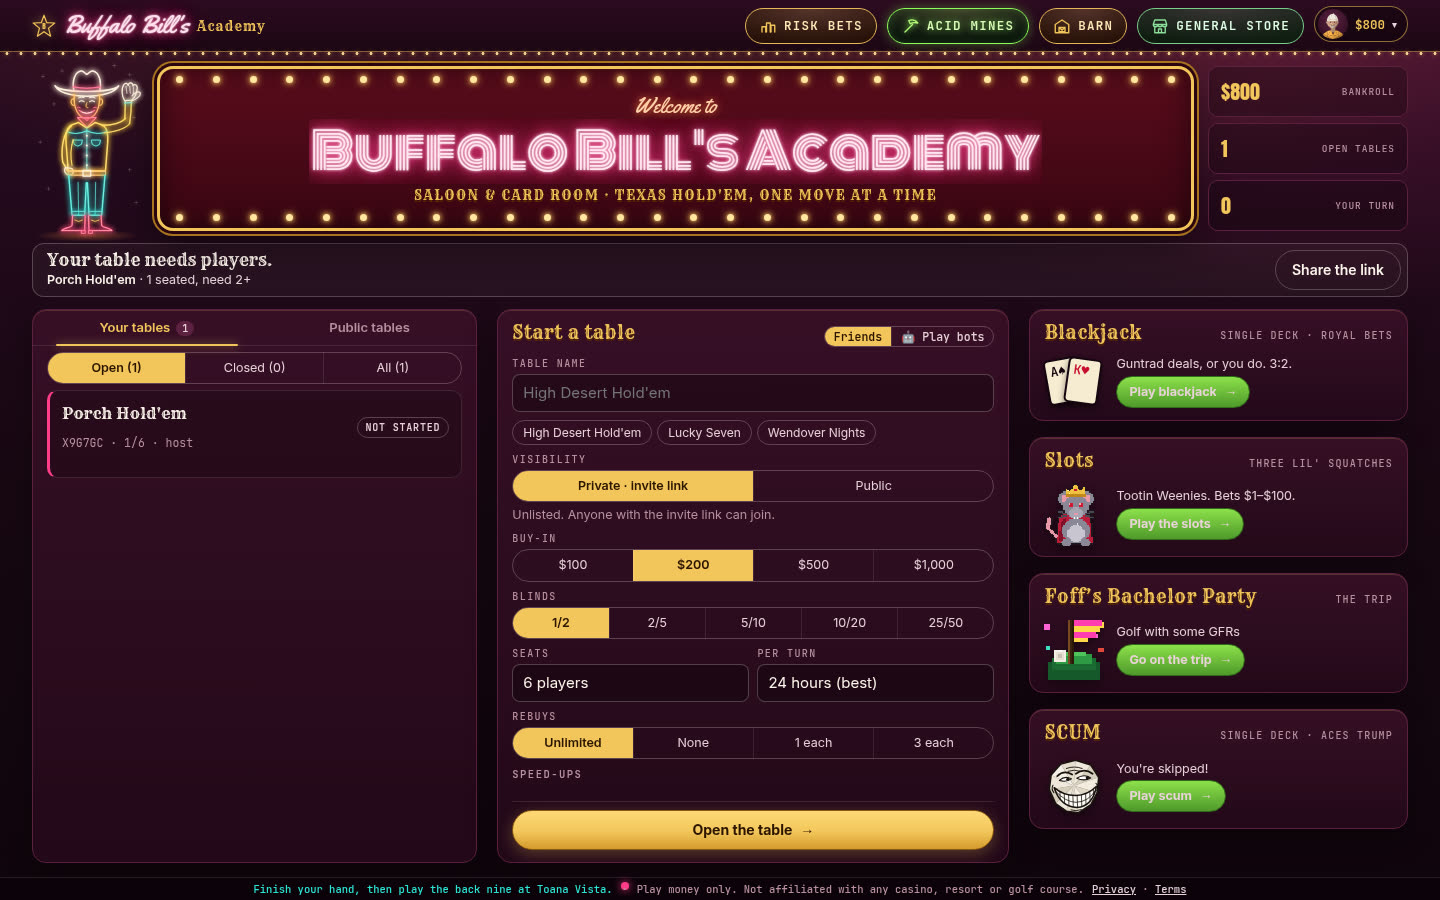
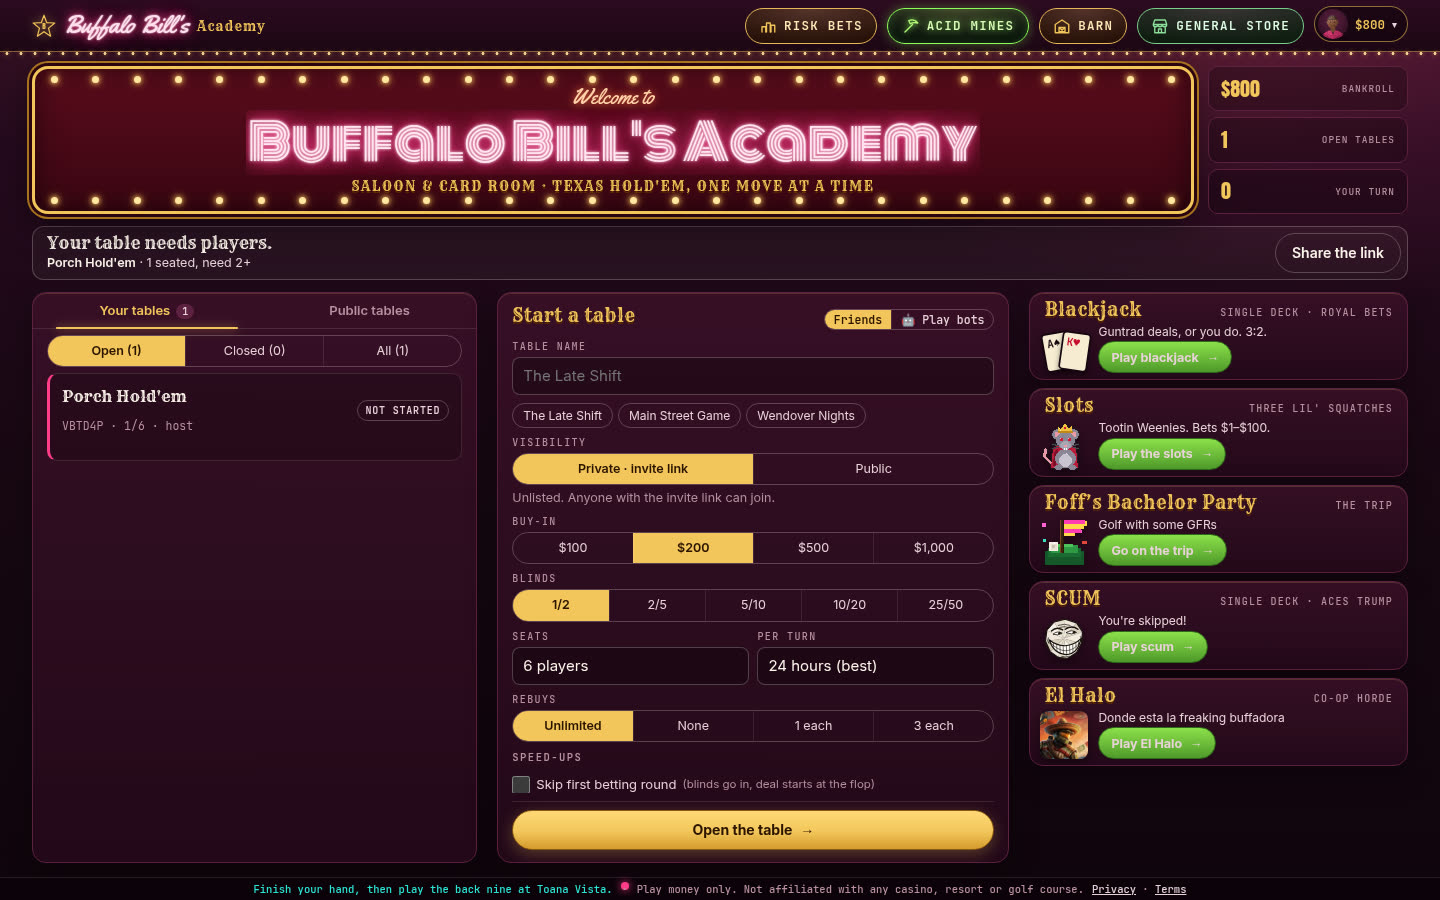
Lobby: El Halo card under SCUM, poster thumb, and a /elhalo route
Adds a fifth game card on the main lobby (and the phone Games tab)
directly below SCUM: Co-op horde tag, the line "Donde esta la freaking
buffadora", and a green Play El Halo button. The thumbnail is a cropped
poster at client/public/elhalo/thumb.webp (png fallback), easy to swap.
Cards are tightened so all five fit with no scrolling on 1280x800,
1440x900, and phones. /elhalo opens the same room as the hall door,
with Exit back to the lobby.

diff --git a/client/src/styles.css b/client/src/styles.css
@@ -1286,7 +1286,7 @@ img.pix { image-rendering: pixelated; image-rendering: crisp-edges; display: blo
 @media (pointer: coarse) { .seg.mini button { min-height: 34px; } }
 
 /* v39: the slots card under Join a table (wide), and the promo under the room code form (narrow Join tab) */
-.lb-col { display: flex; flex-direction: column; gap: clamp(10px, 1.2vw, 16px); min-height: 0; min-width: 0; }
+.lb-col { display: flex; flex-direction: column; gap: clamp(8px, 1vw, 12px); min-height: 0; min-width: 0; }
 .lb-col > .lb-card:first-child { flex: 1 1 auto; }
 .lb-col > .lb-slots { flex: 0 0 auto; }
 .lb-slots .panel-body { padding: 4px 12px 10px; }
@@ -1420,12 +1420,27 @@ img.pix { image-rendering: pixelated; image-rendering: crisp-edges; display: blo
   .promo-pair .bj-promo-art { width: 46px; height: 40px; transform: scale(.75); transform-origin: left center; }
 }
 /* v44: two game cards under Join a table; on short desktops they go compact so the Join form keeps its room */
-@media (min-width: 900px) and (max-height: 800px) {
-  .lb-col .lb-slots .sp-art, .lb-col .lb-slots .bj-promo-art { width: 40px; height: 40px; }
-  .lb-col .lb-slots .bj-promo-art { transform: scale(.72); transform-origin: left center; }
-  .lb-col .lb-slots .sp-desc, .lb-col .lb-slots .sp-note { display: none; }
+@media (min-width: 900px) and (max-height: 920px) {
+  /* Five game cards (through El Halo) still fit on 1440×900, blurbs included. */
+  .lb-col { gap: 8px; }
+  .lb-col .lb-slots .sp-art, .lb-col .lb-slots .bj-promo-art, .lb-col .lb-slots .elh-promo-art { width: 48px; height: 48px; }
+  .lb-col .lb-slots .bj-promo-art { transform: scale(.85); transform-origin: left center; }
   .lb-col .lb-slots .panel-head { padding-top: 4px; padding-bottom: 0; }
-  .lb-col .lb-slots .panel-body { padding: 0 10px 6px; }
+  .lb-col .lb-slots .panel-body { padding: 2px 10px 6px; }
+  .lb-col .lb-slots .sp-txt { gap: 2px; }
+  .lb-col .lb-slots .sp-desc { font-size: 12px; line-height: 1.2; }
+}
+@media (min-width: 900px) and (max-height: 800px) {
+  /* 1280×800: tighter still, but keep the one-line blurb (El Halo's line is long). */
+  .lb-col { gap: 6px; }
+  .lb-col .lb-slots .sp-art, .lb-col .lb-slots .bj-promo-art, .lb-col .lb-slots .elh-promo-art { width: 40px; height: 40px; }
+  .lb-col .lb-slots .bj-promo-art { transform: scale(.72); transform-origin: left center; }
+  .lb-col .lb-slots .sp-note { display: none; }
+  .lb-col .lb-slots .panel-head { padding-top: 2px; padding-bottom: 0; }
+  .lb-col .lb-slots .panel-body { padding: 0 8px 4px; }
+  .lb-col .lb-slots .sp-txt { gap: 1px; }
+  .lb-col .lb-slots .sp-desc { font-size: 11px; line-height: 1.2; }
+  .lb-col .lb-slots .sp-go { padding: 3px 8px; font-size: 12px; }
 }
 @media (min-width: 900px) and (max-height: 620px) {
   .lb-col .lb-slots .panel-head { display: none; }
@@ -1433,13 +1448,13 @@ img.pix { image-rendering: pixelated; image-rendering: crisp-edges; display: blo
 }
 .lb-games { display: contents; }
 @media (min-width: 900px) and (max-height: 620px) {
-  .lb-games { display: flex; gap: 8px; flex: none; min-width: 0; }
-  .lb-games > .lb-slots { flex: 1 1 0; min-width: 0; }
-  .lb-games .sp-art, .lb-games .bj-promo-art, .lb-games .sp-note { display: none; }
+  .lb-games { display: flex; flex-direction: column; gap: 6px; flex: none; min-width: 0; }
+  .lb-games > .lb-slots { flex: 0 0 auto; min-width: 0; }
+  .lb-games .sp-art, .lb-games .bj-promo-art, .lb-games .elh-promo-art, .lb-games .sp-note, .lb-games .sp-desc { display: none; }
   .lb-games .sp-go { width: 100%; justify-content: center; padding-inline: 6px; font-size: 12px; white-space: nowrap; }
   .lb-games .sp-txt { align-items: stretch; width: 100%; }
   .lb-games .slots-promo { width: 100%; }
-  .lb-games .lb-slots .panel-body { padding: 6px; }
+  .lb-games .lb-slots .panel-body { padding: 4px 6px; }
 }
 /* v50: crowded tables: tighter name/stack pills (two short lines) so 7-9 seats never touch each other */
 .felt-box.crowd .seat-plate { padding: 1px 7px 2px; min-width: calc(var(--bust) * 1.3); }
@@ -1659,6 +1674,15 @@ button, .btn, [role=button], label { touch-action: manipulation; }
 .lb-col > .lb-scum { flex: 0 0 auto; }
 .sc-promo-art { display: grid; place-items: center; }
 .sc-promo-art svg { width: 100%; height: auto; }
+/* El Halo lobby card (directly below SCUM). The thumb is a photo, not pixel art. */
+.lb-col > .lb-elhalo { flex: 0 0 auto; }
+.elh-promo-art {
+  image-rendering: auto;
+  object-fit: cover;
+  border-radius: 8px;
+  background: #1d0f24;
+  filter: drop-shadow(0 3px 4px rgba(0,0,0,.45));
+}
 
 /* v86: Games tab on phones — every game card must be visible and tappable without scrolling.
    Compact rows, drop the marquee and host strip, shrink the footer, and keep overflow-y as a
@@ -1684,13 +1708,14 @@ button, .btn, [role=button], label { touch-action: manipulation; }
     overflow-y: auto; overscroll-behavior: contain;
   }
   .lobby5.narrow .promo-pair > .slots-promo:not(.bare) {
-    margin-top: 0; padding: 6px 8px; gap: 8px;
+    margin-top: 0; padding: 5px 8px; gap: 8px;
   }
-  .lobby5.narrow .promo-pair .sp-art { width: 40px; height: 40px; }
+  .lobby5.narrow .promo-pair .sp-art, .lobby5.narrow .promo-pair .elh-promo-art { width: 40px; height: 40px; }
   .lobby5.narrow .promo-pair .bj-promo-art {
     width: 46px; height: 40px; transform: scale(.75); transform-origin: left center;
   }
   .lobby5.narrow .promo-pair .sc-promo-art svg { width: 40px; height: 40px; }
+  .lobby5.narrow .promo-pair .elh-promo-art { border-radius: 6px; image-rendering: auto; }
   /* Icon + title/line + button on one compact row; keep the short descriptor. */
   .lobby5.narrow .promo-pair .sp-txt {
     flex: 1; min-width: 0;
@@ -1701,10 +1726,10 @@ button, .btn, [role=button], label { touch-action: manipulation; }
   .lobby5.narrow .promo-pair .sp-go { margin-left: auto; }
 }
 
-/* Landscape phones: two-by-two so four compact cards share the short height. */
+/* Landscape phones: three-and-two so five compact cards share the short height. */
 @media (max-width: 899px) and (orientation: landscape) and (max-height: 520px) {
   .lobby5.narrow .promo-pair {
-    display: grid; grid-template-columns: 1fr 1fr; align-content: start; gap: 6px;
+    display: grid; grid-template-columns: 1fr 1fr 1fr; align-content: start; gap: 6px;
   }
   .lobby5.narrow .promo-pair > .slots-promo:not(.bare) { margin-top: 0; padding: 4px 8px; }
   .lobby5.narrow .promo-pair .sp-txt b { display: inline; }

diff --git a/client/src/Home.jsx b/client/src/Home.jsx
@@ -8,6 +8,7 @@ import { formatLeft, money } from './util.js';
 import { Marquee, TABLE_NAMES, VENUE } from './theme.jsx';
 import { FoffCard, FoffPromo } from './foff/FoffCard.jsx';
 import { ScumCard, ScumPromo } from './scum/ScumCard.jsx';
+import { ElHaloCard, ElHaloPromo } from './mines/elhalo/ElHaloCard.jsx';
 
 const TURN_OPTIONS = [
   [30, '30 sec (quick)'], [60, '1 minute'], [300, '5 minutes'], [3600, '1 hour'],
@@ -181,7 +182,7 @@ export default function Home({ tab: tabProp }) {
         {me ? <Card title="Start a table" className="create-card" sub={<VsSwitch vs={vs} setVs={setOpponent} />}>{newTable}</Card> : <Card title="How it plays" sub="House rules"><HouseRules /></Card>}
         {me ? (
           <div className="lb-col lb-games-col">
-            <div className="lb-games"><BlackjackCard /><SlotsCard /><FoffCard /><ScumCard /></div>
+            <div className="lb-games"><BlackjackCard /><SlotsCard /><FoffCard /><ScumCard /><ElHaloCard /></div>
           </div>
         ) : <Card title="How to join" sub="Invite link"><p className="small muted">Got an invite link? Just open it. Buy-ins come out of your bankroll; when you leave, your chips go back in.</p></Card>}
       </div>
@@ -335,7 +336,7 @@ function PublicTableList({ tables, loading, error, startPublic }) {
 
 function LobbyPanel({ personalTables, publicTables, tab, setTab, wide, newTable, startPublic, tableFilter, setTableFilter }) {
   const mine = personalTables.loaded ? personalTables.tables.length || null : '—';
-  // v51: Join-by-code gone; Games tab holds blackjack, slots, Foff's Bachelor Party and Async Scum.
+  // v51: Join-by-code gone; Games tab holds blackjack, slots, Foff's Bachelor Party, Async Scum and El Halo.
   // v51d: do NOT stack Games under Your tables — that ate the Paged height so table cards
   // clipped to a pink sliver with an empty gap (pager 1/N, no tappable rows).
   const tabKey = wide ? (tab === 'public' ? 'public' : 'tables') : tab === 'join' ? 'tables' : tab;
@@ -345,7 +346,7 @@ function LobbyPanel({ personalTables, publicTables, tab, setTab, wide, newTable,
       <div className={`panel-body ${['tables', 'public'].includes(tabKey) ? 'tables-tab' : tabKey === 'games' ? 'games-tab' : ''}`}>
         {tabKey === 'public' ? <PublicTableList {...publicTables} startPublic={startPublic} />
           : tabKey === 'new' ? newTable
-          : tabKey === 'games' ? <div className="promo-pair" data-test="lobby-games"><BlackjackPromo /><SlotsPromo /><FoffPromo /><ScumPromo /></div>
+          : tabKey === 'games' ? <div className="promo-pair" data-test="lobby-games"><BlackjackPromo /><SlotsPromo /><FoffPromo /><ScumPromo /><ElHaloPromo /></div>
           : <TableList {...personalTables} setTab={setTab} filter={tableFilter} setFilter={setTableFilter} />}
       </div>
     </div>

diff --git a/test/el-halo-card.test.js b/test/el-halo-card.test.js
@@ -1,0 +1,52 @@
+// The lobby El Halo tile sits under SCUM, uses the swappable thumb, and opens /elhalo.
+import { test } from 'node:test';
+import assert from 'node:assert/strict';
+import fs from 'node:fs';
+import path from 'node:path';
+import { fileURLToPath } from 'node:url';
+
+const root = path.resolve(path.dirname(fileURLToPath(import.meta.url)), '..');
+const read = (p) => fs.readFileSync(path.join(root, p), 'utf8');
+
+test('El Halo sits directly under SCUM on the lobby and on the Games tab', () => {
+  const home = read('client/src/Home.jsx');
+  assert.match(home, /import \{ ElHaloCard, ElHaloPromo \} from '\.\/mines\/elhalo\/ElHaloCard\.jsx'/);
+  assert.match(home, /<ScumCard \/><ElHaloCard \/>/);
+  assert.match(home, /<ScumPromo \/><ElHaloPromo \/>/);
+  const card = read('client/src/mines/elhalo/ElHaloCard.jsx');
+  assert.match(card, /className="panel lb-card lb-slots lb-elhalo"/);
+  assert.match(card, /data-test="elhalo-card"/);
+  assert.match(card, /data-test="elhalo-go"/);
+  assert.match(card, /Co-op horde/);
+  assert.match(card, /Play El Halo/);
+  assert.match(card, /navigate\('\/elhalo'\)/);
+});
+
+test('the El Halo blurb is exactly the line Tyler asked for', () => {
+  const card = read('client/src/mines/elhalo/ElHaloCard.jsx');
+  assert.match(card, /export const EL_HALO_BLURB = 'Donde esta la freaking buffadora'/);
+  assert.equal((card.match(/Donde esta la freaking buffadora/g) || []).length, 1);
+});
+
+test('the thumbnail slot is a swappable public file (webp, with png fallback)', () => {
+  const card = read('client/src/mines/elhalo/ElHaloCard.jsx');
+  assert.match(card, /\/elhalo\/thumb\.webp/);
+  assert.match(card, /\/elhalo\/thumb\.png/);
+  const webp = path.join(root, 'client/public/elhalo/thumb.webp');
+  assert.equal(fs.existsSync(webp), true, 'client/public/elhalo/thumb.webp is present');
+  assert.ok(fs.statSync(webp).size > 1000, 'thumb.webp is a real image');
+  assert.ok(fs.statSync(webp).size < 80_000, 'thumb.webp stays small so it is easy to swap');
+});
+
+test('App opens /elhalo as its own lazily loaded page, outside the hall', () => {
+  const app = read('client/src/App.jsx');
+  assert.match(app, /lazy\(\(\) => import\('\.\/mines\/elhalo\/ElHaloPage\.jsx'\)\)/);
+  assert.match(app, /path === '\/elhalo'/);
+  assert.doesNotMatch(app, /^import .*elhalo/m, 'no static import of the game');
+  const page = read('client/src/mines/elhalo/ElHaloPage.jsx');
+  assert.match(page, /navigate\('\/'\)/);
+  assert.match(page, /BACK TO THE LOBBY/);
+  const room = read('client/src/mines/elhalo/ElHaloRoom.jsx');
+  assert.match(room, /exitLabel = '◄ BACK TO THE HALL'/);
+  assert.match(room, /showShift = true/);
+});

diff --git a/client/src/mines/elhalo/ElHaloRoom.jsx b/client/src/mines/elhalo/ElHaloRoom.jsx
@@ -91,7 +91,7 @@ function Board({ rows, onClose, touch }) {
   );
 }
 
-export default function ElHaloRoom({ onExit, elapsedMs }) {
+export default function ElHaloRoom({ onExit, elapsedMs, exitLabel = '◄ BACK TO THE HALL', showShift = true }) {
   const canvas = useRef(null), stage = useRef(null), game = useRef(null);
   const [touch] = useState(isTouch);
   const [muted, setMuted] = useState(() => localStorage.getItem('bba.elhalo.muted') === '1');
@@ -144,9 +144,9 @@ export default function ElHaloRoom({ onExit, elapsedMs }) {
   return createPortal(
     <div className={`m-doom m-elh${touch ? ' touch' : ''}`} role="dialog" aria-label="El Halo" data-test="elhalo-room" data-mode={m}>
       <div className="m-doom-bar m-elh-bar">
-        <button className="m-btn m-doom-exit" onClick={onExit} data-test="elhalo-exit">◄ BACK TO THE HALL</button>
+        <button className="m-btn m-doom-exit" onClick={onExit} data-test="elhalo-exit">{exitLabel}</button>
         <span className="m-elh-name" aria-hidden="true">EL HALO</span>
-        <span className="m-dim m-doom-clock" title="Your shift is still on the clock while you're in here">SHIFT {String(Math.floor(secs / 60)).padStart(2, '0')}:{String(secs % 60).padStart(2, '0')}</span>
+        {showShift && <span className="m-dim m-doom-clock" title="Your shift is still on the clock while you're in here">SHIFT {String(Math.floor(secs / 60)).padStart(2, '0')}:{String(secs % 60).padStart(2, '0')}</span>}
         {touch && m === 'playing' && <button className="m-link" onClick={() => setBoard((b) => (b ? null : game.current.board()))} data-test="elhalo-board-btn">MARCADOR</button>}
         <button className="m-link" onClick={cycleMusic} data-test="elhalo-music" title="Music volume">MÚSICA {MUSIC_LEVELS[music][0]}</button>
         <button className="m-link" onClick={() => setMuted((v) => !v)} aria-pressed={!muted} data-test="elhalo-mute">{muted ? '♪ OFF' : '♪ ON'}<span className="sr-only"> game sound</span></button>

diff --git a/test/games-fit.test.js b/test/games-fit.test.js
@@ -21,9 +21,9 @@ test('Games tab CSS hides the marquee and host strip on phones and keeps a scrol
   assert.match(block, /\.panel-body\.games-tab/);
   assert.match(block, /overflow-y: auto/);
   assert.match(block, /\.lobby5\.narrow \.promo-pair/);
-  assert.match(block, /\.sp-art \{ width: 40px; height: 40px; \}/);
+  assert.match(block, /\.sp-art(?:, [^\n]+)? \{ width: 40px; height: 40px; \}/);
   assert.match(block, /orientation: landscape/);
-  assert.match(block, /grid-template-columns: 1fr 1fr/);
+  assert.match(block, /grid-template-columns: 1fr 1fr 1fr/);
   // Desktop column rules must not be rewritten by the phone block.
   assert.doesNotMatch(block, /@media \(min-width: 900px\)/);
 });
@@ -38,6 +38,7 @@ test('Games tab panel is marked games-tab and still lists every promo', () => {
   assert.match(slice, /<SlotsPromo \/>/);
   assert.match(slice, /<FoffPromo \/>/);
   assert.match(slice, /<ScumPromo \/>/);
+  assert.match(slice, /<ElHaloPromo \/>/);
 });
 
 test('phone footer hides the long affiliation clause; house play-money line stays', () => {
@@ -55,14 +56,18 @@ test('SCUM card line and slots copy stay as shipped', () => {
   assert.equal(promo.includes('Play money only'), false);
 });
 
-test('e2e no-scroll check covers 390x664, 375x667 and landscape', () => {
+test('e2e no-scroll check covers 390x664, 375x667, 390x844, landscape, 1280x800 and 1440x900', () => {
   const e2e = read('scripts/e2e-games-fit.mjs');
   assert.match(e2e, /width: 390, height: 664/);
   assert.match(e2e, /width: 375, height: 667/);
+  assert.match(e2e, /width: 390, height: 844/);
+  assert.match(e2e, /width: 1280, height: 800/);
+  assert.match(e2e, /width: 1440, height: 900/);
   assert.match(e2e, /landscape/i);
   assert.match(e2e, /bj-go/);
   assert.match(e2e, /slots-go/);
   assert.match(e2e, /foff-go/);
   assert.match(e2e, /scum-go/);
+  assert.match(e2e, /elhalo-go/);
   assert.match(e2e, /getBoundingClientRect|within the viewport|inView|fullyVisible/);
 });

diff --git a/client/src/mines/elhalo/ElHaloCard.jsx b/client/src/mines/elhalo/ElHaloCard.jsx
@@ -1,0 +1,39 @@
+// Lobby Games card for El Halo: same chrome as blackjack, slots and SCUM.
+// Art is client/public/elhalo/thumb.webp (falls back to thumb.png). Drop in a new file to swap it.
+import React, { useState } from 'react';
+import { navigate } from '../../App.jsx';
+
+const THUMB_WEBP = '/elhalo/thumb.webp';
+const THUMB_PNG = '/elhalo/thumb.png';
+export const EL_HALO_BLURB = 'Donde esta la freaking buffadora';
+
+export function ElHaloCard() {
+  return (
+    <section className="panel lb-card lb-slots lb-elhalo" data-test="elhalo-card">
+      <div className="panel-head"><span className="western">El Halo</span><span className="ph-sub">Co-op horde</span></div>
+      <div className="panel-body"><ElHaloPromo bare /></div>
+    </section>
+  );
+}
+
+export function ElHaloPromo({ bare = false }) {
+  const [src, setSrc] = useState(THUMB_WEBP);
+  return (
+    <div className={`slots-promo elh-promo ${bare ? 'bare' : ''}`} data-test={bare ? undefined : 'elhalo-card'}>
+      <img
+        className="sp-art elh-promo-art"
+        src={src}
+        alt=""
+        aria-hidden="true"
+        width={64}
+        height={64}
+        onError={() => { if (src !== THUMB_PNG) setSrc(THUMB_PNG); }}
+      />
+      <div className="sp-txt">
+        {!bare && <b className="western">El Halo</b>}
+        <span className="small sp-desc">{EL_HALO_BLURB}</span>
+        <button className="btn small sp-go" onClick={() => navigate('/elhalo')} data-test="elhalo-go">Play El Halo <span className="arrow">→</span></button>
+      </div>
+    </div>
+  );
+}

diff --git a/client/src/App.jsx b/client/src/App.jsx
@@ -20,6 +20,7 @@ const Conquest = lazy(() => import('./Conquest.jsx'));
 const Room = lazy(() => import('./room/Room.jsx'));
 const Foff = lazy(() => import('./foff/Foff.jsx'));
 const Admin = lazy(() => import('./admin/AdminPage.jsx'));
+const ElHalo = lazy(() => import('./mines/elhalo/ElHaloPage.jsx'));
 
 export function navigate(path, { replace = false } = {}) {
   if (path === window.location.pathname + window.location.search) return;
@@ -60,6 +61,7 @@ export default function App() {
   // owner only; the API enforces it. The boundary means a crash or a failed download shows a message, never a blank page.
   if (path === '/admin') return <AdminBoundary><Suspense fallback={<BoScreen testId="bo-loading"><p style={{ margin: 0, opacity: 0.7 }}>Opening the back office…</p></BoScreen>}><Admin /></Suspense></AdminBoundary>;
   if (path === '/foff') return <Suspense fallback={<div style={{ background: '#0b1c13', minHeight: '100vh' }} />}><Foff /></Suspense>; // lobby card unlocks this after the film
+  if (path === '/elhalo') return <Suspense fallback={<div style={{ background: '#1d0f24', minHeight: '100vh' }} />}><ElHalo /></Suspense>;
   const t = path.match(/^\/t\/([A-Za-z0-9]{4,8})/);
   const p = path.match(/^\/players\/([\w-]+)/);
   const room = path.match(/^\/rooms\/([\w-]+)\/?$/);

diff --git a/test/foff-card.test.js b/test/foff-card.test.js
@@ -11,8 +11,8 @@ const css = fs.readFileSync(path.join(root, 'client/src/foff/foff-card.css'), 'u
 const home = fs.readFileSync(path.join(root, 'client/src/Home.jsx'), 'utf8');
 
 test('unlocked Foff lobby tile uses the same card chrome and CTA as blackjack and slots', () => {
-  assert.match(home, /<div className="lb-games"><BlackjackCard \/><SlotsCard \/><FoffCard \/><ScumCard \/><\/div>/);
-  assert.match(home, /<div className="promo-pair" data-test="lobby-games"><BlackjackPromo \/><SlotsPromo \/><FoffPromo \/><ScumPromo \/><\/div>/);
+  assert.match(home, /<div className="lb-games"><BlackjackCard \/><SlotsCard \/><FoffCard \/><ScumCard \/><ElHaloCard \/><\/div>/);
+  assert.match(home, /<div className="promo-pair" data-test="lobby-games"><BlackjackPromo \/><SlotsPromo \/><FoffPromo \/><ScumPromo \/><ElHaloPromo \/><\/div>/);
   assert.match(jsx, /className="panel lb-card lb-slots lb-foff"/);
   assert.match(jsx, /className=\{`slots-promo foff-promo /);
   assert.match(jsx, /Go on the trip/);

diff --git a/client/src/mines/elhalo/ElHaloPage.jsx b/client/src/mines/elhalo/ElHaloPage.jsx
@@ -1,0 +1,24 @@
+// First-class /elhalo page, used by the lobby card. Same room as the Hall of Doors, but Exit goes home.
+import React, { useEffect, useState } from 'react';
+import { navigate } from '../../App.jsx';
+import '../mines.css';
+import ElHaloRoom from './ElHaloRoom.jsx';
+
+export default function ElHaloPage() {
+  const [elapsedMs, setElapsedMs] = useState(0);
+  useEffect(() => {
+    const t0 = Date.now();
+    const id = setInterval(() => setElapsedMs(Date.now() - t0), 250);
+    return () => clearInterval(id);
+  }, []);
+  return (
+    <div className="mines" data-test="elhalo-page">
+      <ElHaloRoom
+        elapsedMs={elapsedMs}
+        onExit={() => navigate('/')}
+        exitLabel="◄ BACK TO THE LOBBY"
+        showShift={false}
+      />
+    </div>
+  );
+}
